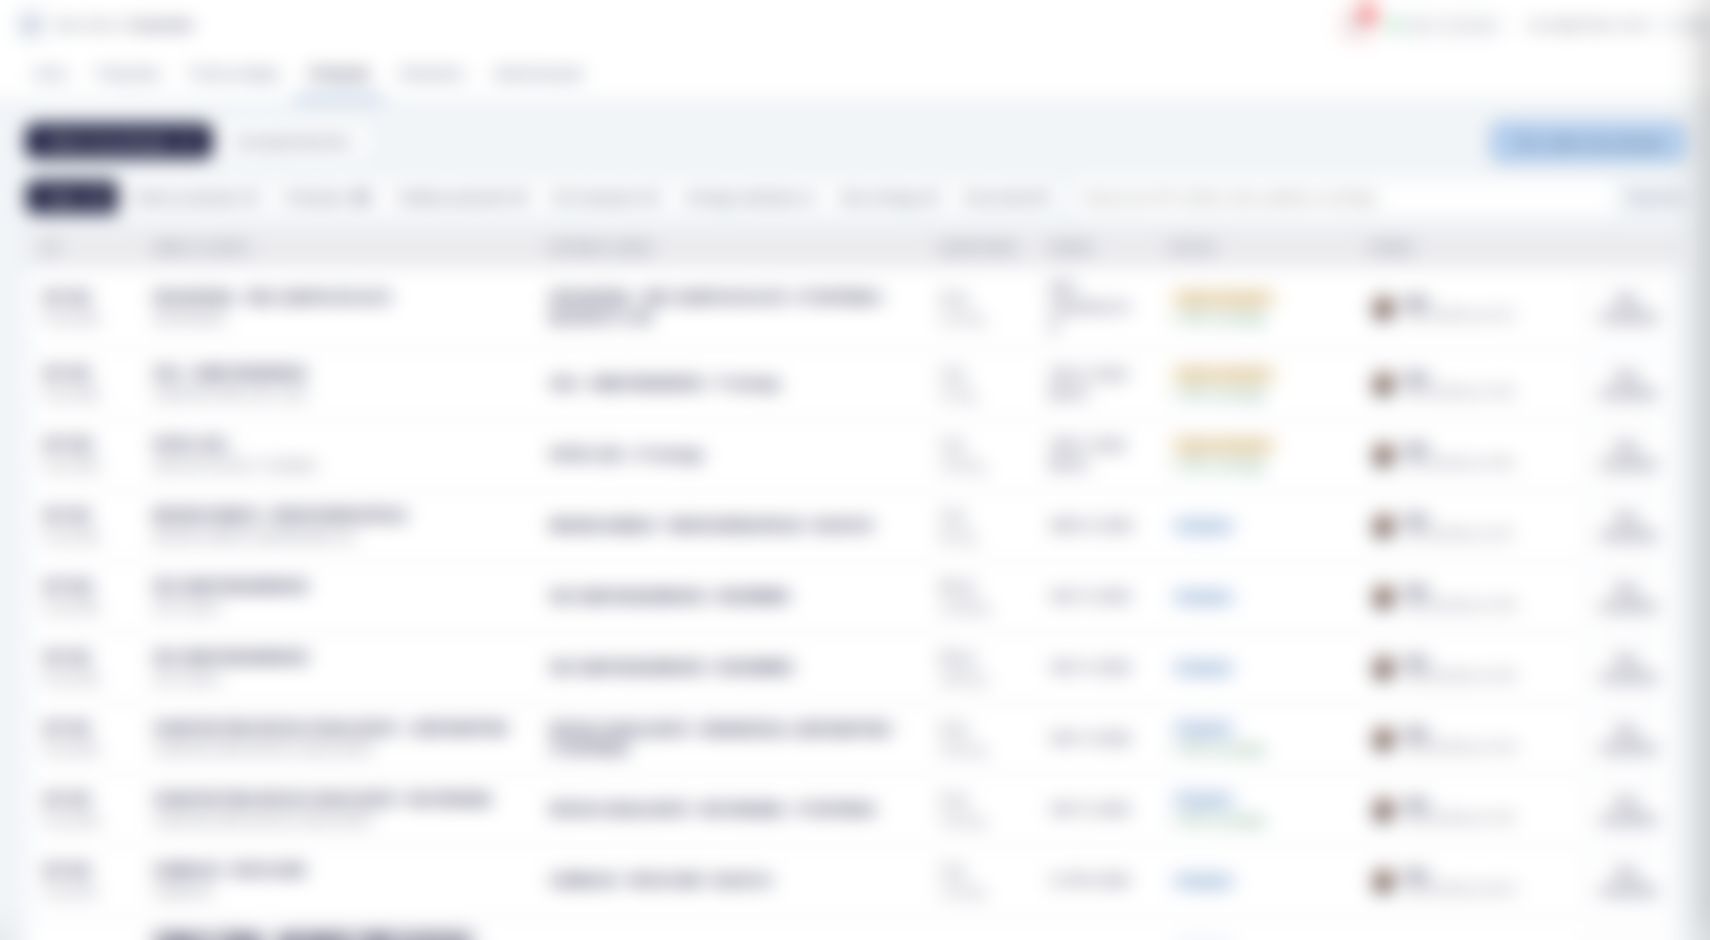
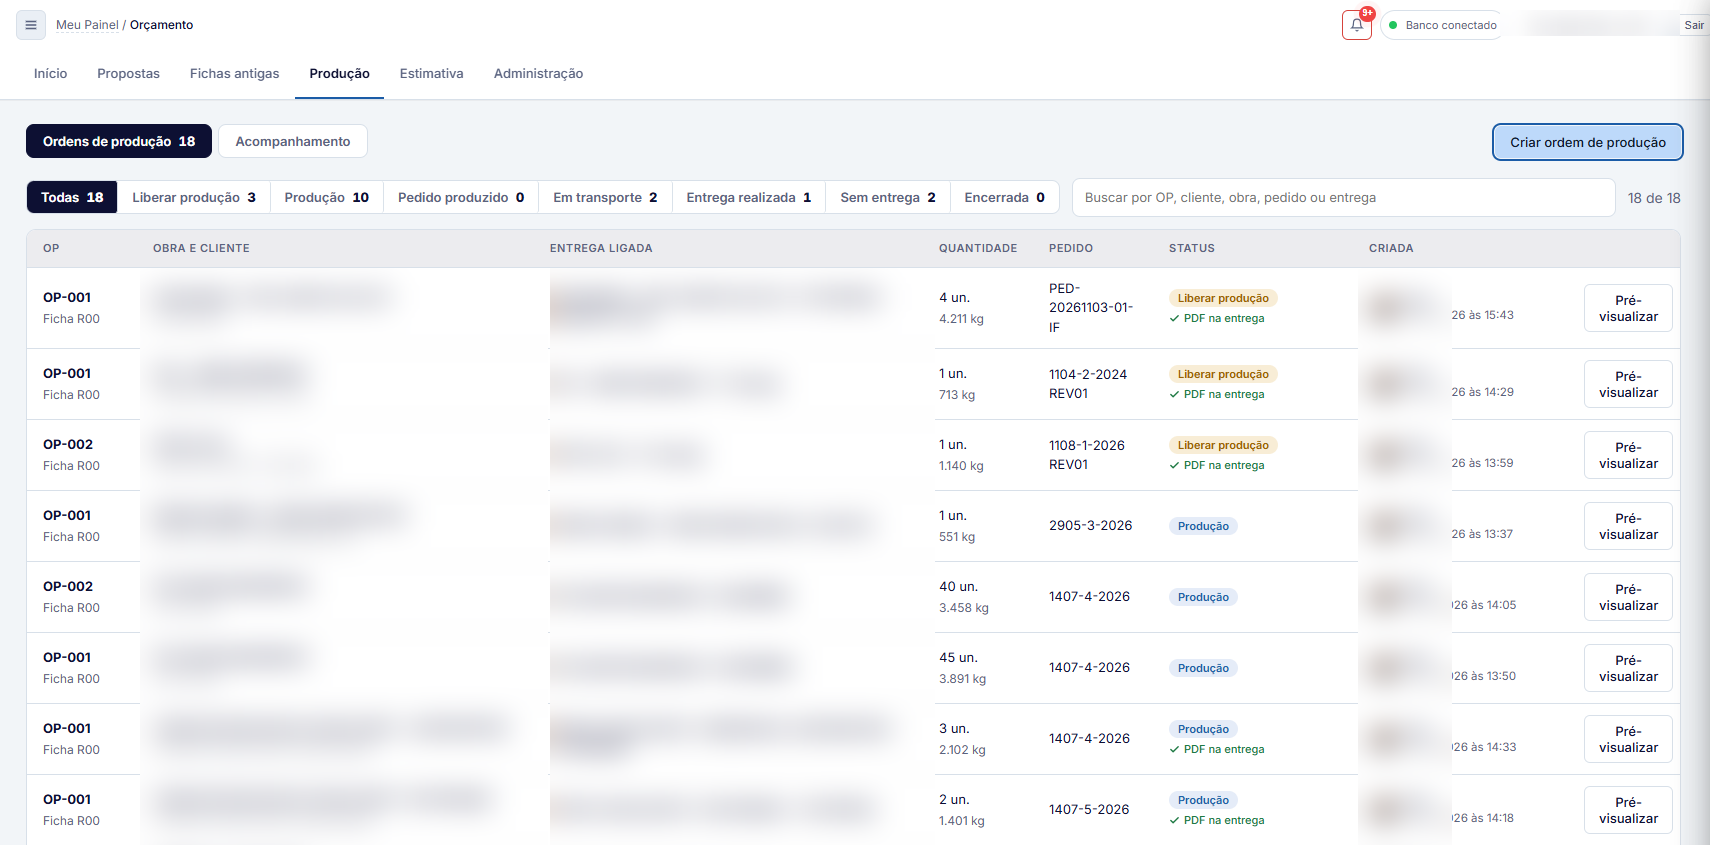
Reduz o borrão exagerado nos prints do case de construção industrializada
A tela de Produção (que eu tinha acabado de adicionar) e a de Tarefas de TI estavam com blur no print inteiro, apagando até a estrutura da interface — não só os dados sensíveis. Produção agora usa blur só nas colunas com nome de obra/cliente/responsável (igual ao padrão já usado em Obras/Frota/RH); Tarefas de TI voltou a usar a versão nítida de uma revisão anterior, com um blur leve por cima pra continuar ilegível sem esconder o layout. Também ajusta a barra de abas do case (flex:1 1 auto) pra não sobrar espaço vazio quando uma aba quebra linha sozinha.

Claude-Session: https://claude.ai/code/session_01Kkat9Arr9QPmwNV889KMTP

diff --git a/js/portfolio.js b/js/portfolio.js
@@ -120,7 +120,7 @@
       const shots = copy.shots;
       const tabs = shots.map(
         (s, i) =>
-          `<button type="button" role="tab" data-case-tab="${s.key}" class="case-tab-btn" style="padding:12px 16px;border:0;background:${i === 0 ? "#0e0f0b" : "transparent"};color:${i === 0 ? "#fffceb" : "#0e0f0b"};font:inherit;cursor:pointer">${s.label}</button>`
+          `<button type="button" role="tab" data-case-tab="${s.key}" class="case-tab-btn" style="flex:1 1 auto;white-space:nowrap;text-align:center;padding:12px 16px;border:0;background:${i === 0 ? "#0e0f0b" : "transparent"};color:${i === 0 ? "#fffceb" : "#0e0f0b"};font:inherit;cursor:pointer">${s.label}</button>`
       ).join("");
 
       const imgs = shots.map((s, i) =>
@@ -180,7 +180,7 @@
           ${tabLabels
             .map(
               (label, i) =>
-                `<button type="button" role="tab" data-tab-btn="${i}" class="case-tab-btn" style="padding:12px 16px;border:0;background:${i === 0 ? "#0e0f0b" : "transparent"};color:${i === 0 ? "#fffceb" : "#0e0f0b"};font:inherit;cursor:pointer">${label}</button>`
+                `<button type="button" role="tab" data-tab-btn="${i}" class="case-tab-btn" style="flex:1 1 auto;white-space:nowrap;text-align:center;padding:12px 16px;border:0;background:${i === 0 ? "#0e0f0b" : "transparent"};color:${i === 0 ? "#fffceb" : "#0e0f0b"};font:inherit;cursor:pointer">${label}</button>`
             )
             .join("")}
         </div>`
